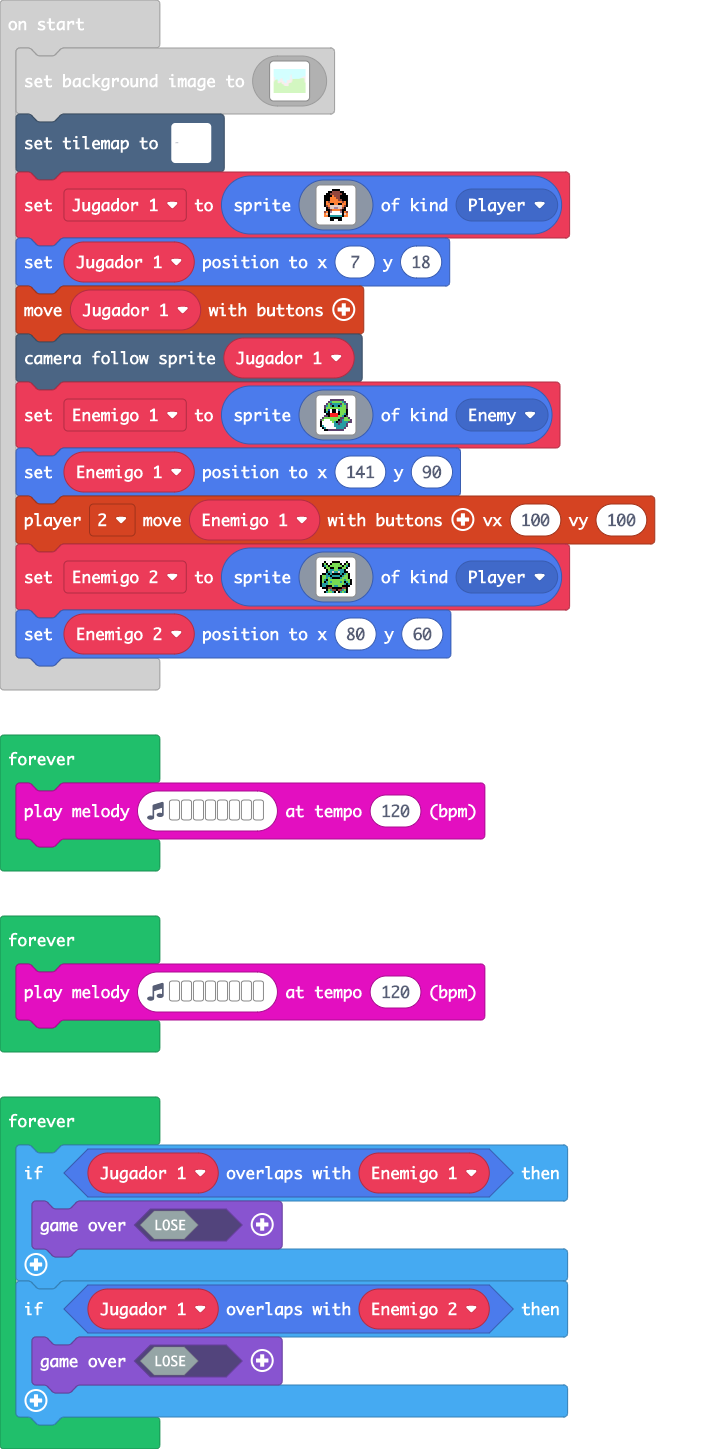
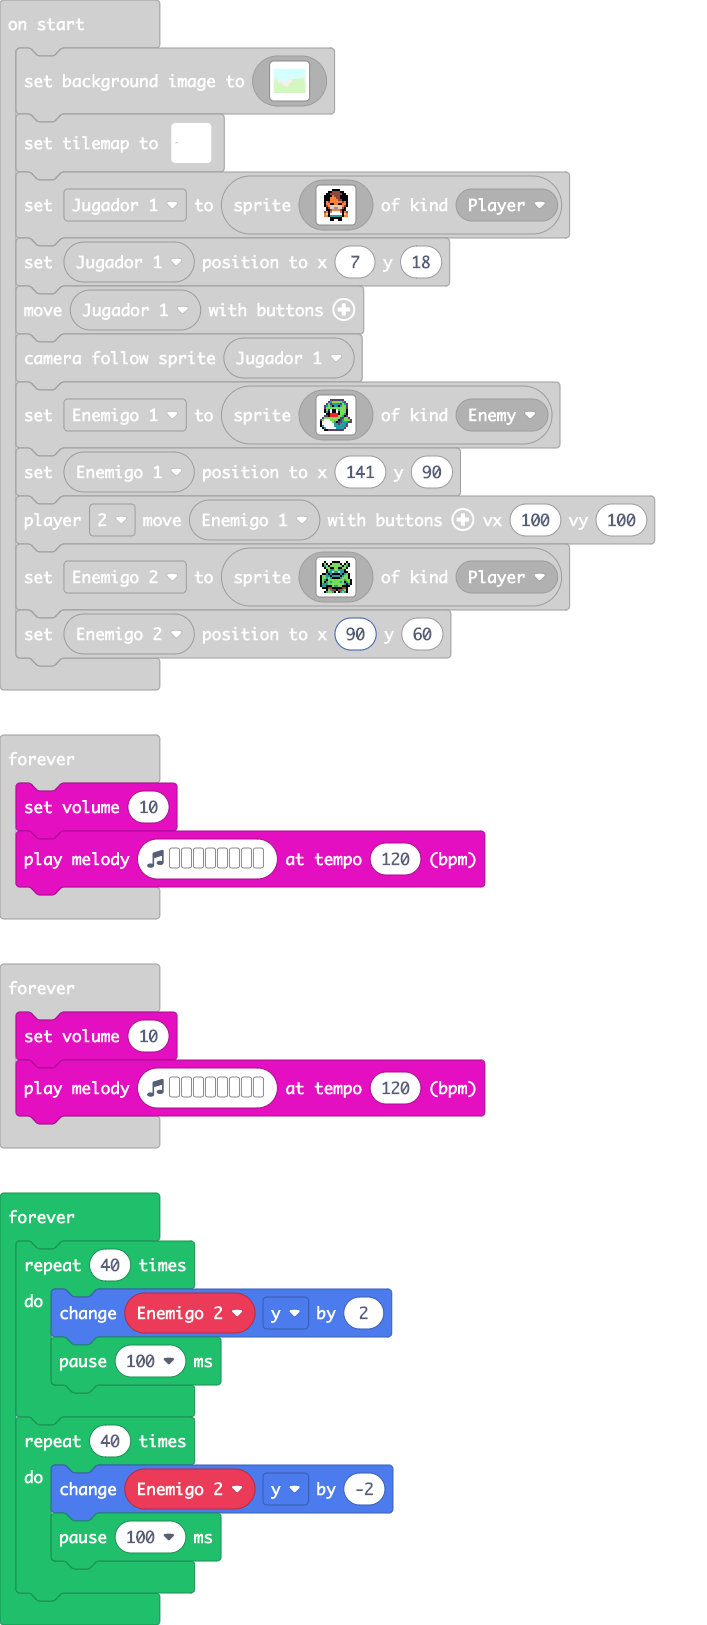
Update main.blocks, main.ts

diff --git a/main.ts b/main.ts
@@ -189,12 +189,24 @@ let Enemigo_2 = sprites.create(img`
     . . . f 7 6 e e f e e 6 7 f . . 
     . . f 6 7 7 6 f . f 6 7 6 f . . 
     `, SpriteKind.Player)
-Enemigo_2.setPosition(80, 60)
+Enemigo_2.setPosition(90, 60)
 forever(function () {
+    music.setVolume(10)
     music.playMelody("C C D E E D F A ", 120)
 })
 forever(function () {
+    music.setVolume(10)
     music.playMelody("B A - A G - G F ", 120)
+})
+forever(function () {
+    for (let index = 0; index < 40; index++) {
+        Enemigo_2.y += 2
+        pause(100)
+    }
+    for (let index = 0; index < 40; index++) {
+        Enemigo_2.y += -2
+        pause(100)
+    }
 })
 forever(function () {
     if (Jugador_1.overlapsWith(Enemigo_1)) {
